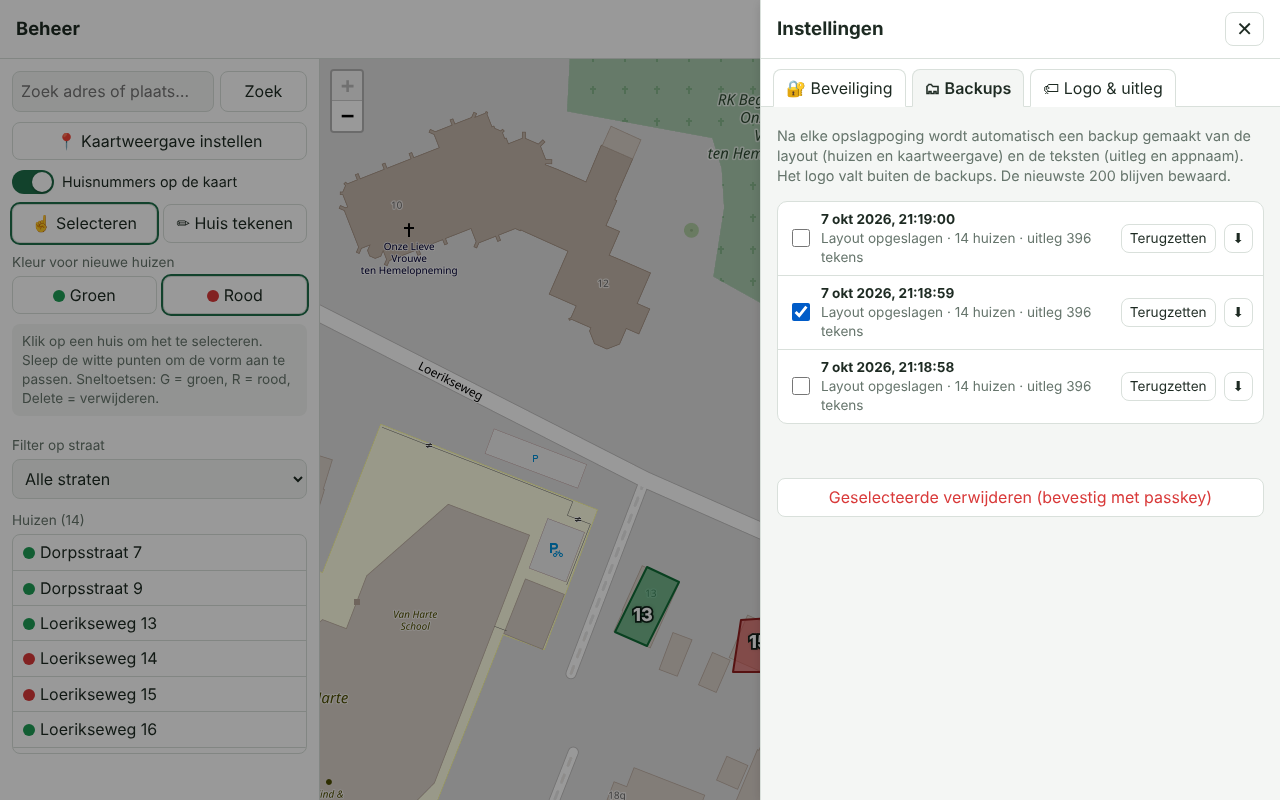
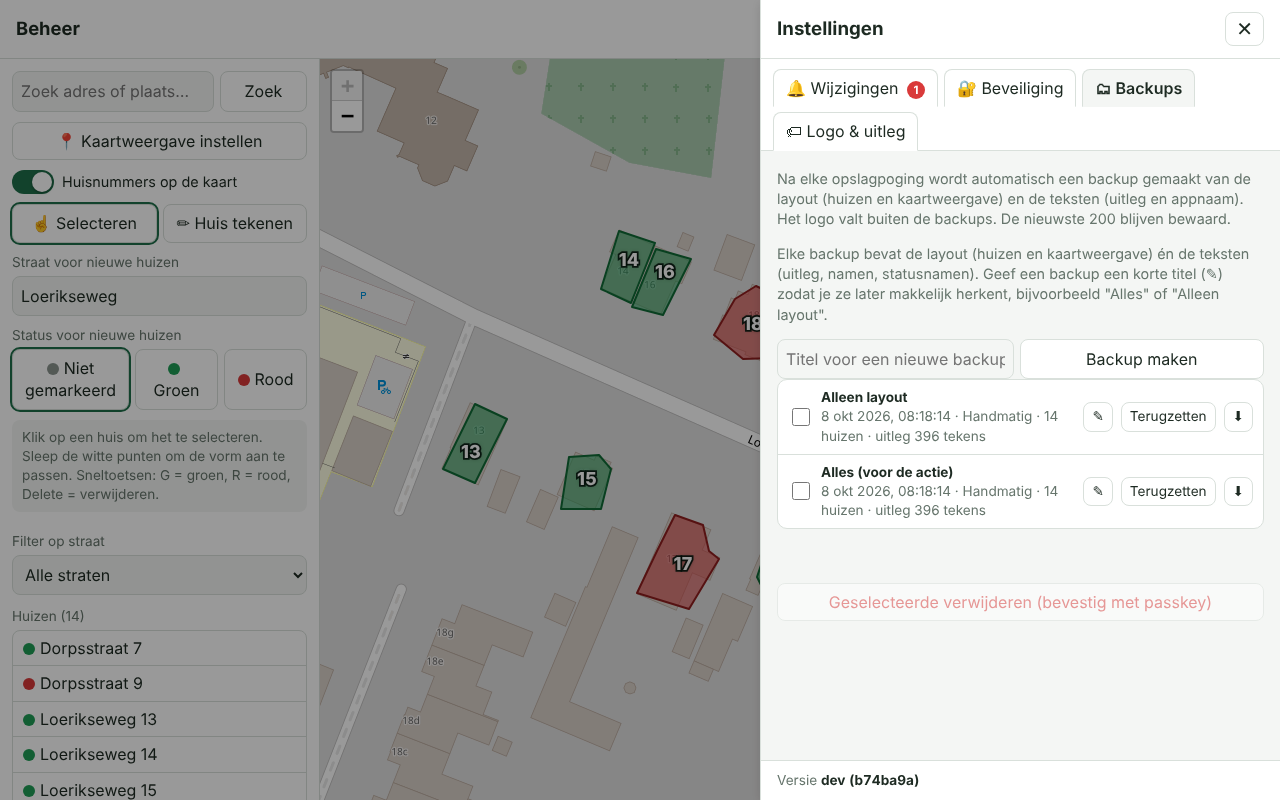
README: volledige beschrijving van functies en nieuwe beheer-screenshots; uitgeschakelde schakelaars zichtbaar dimmen
Claude-Session: https://claude.ai/code/session_01RbVCVsqhcBjjeTGeb2Cmpu

diff --git a/public/css/style.css b/public/css/style.css
@@ -248,3 +248,4 @@ path.pending { animation: dash 1.2s linear infinite; }
 .intro-head { display: flex; align-items: flex-start; justify-content: space-between; gap: 10px; position: sticky; top: 0; background: var(--panel); z-index: 1; }
 .intro-head h3 { margin: 8px 0; }
 .leaflet-container { -webkit-touch-callout: none; -webkit-user-select: none; user-select: none; }
+.switch:has(input:disabled) { opacity: .45; cursor: not-allowed; }

diff --git a/README.md b/README.md
@@ -1,17 +1,45 @@
 # Sint Maarten – interactieve wijkkaart
 
-Publieke kaart van de wijk waarop huizen groen of rood zijn gemarkeerd, met een beheerscherm
-(`/beheer`) dat beveiligd is met een **passkey**.
+Een interactieve kaart van de wijk waarop elk huis **groen**, **rood** of **niet gemarkeerd** is (bijvoorbeeld voor een Sint Maarten-actie: welke huizen willen wel of niet dat er wordt aangebeld). Bezoekers bekijken de kaart in de browser of als app op hun telefoon; de beheerder tekent de huizen en beheert alles in `/beheer`, beveiligd met een **passkey**. Draait als één Docker-container op bijvoorbeeld een NAS.
 
-## Screenshots
+## Inhoud
+- [Functies in het kort](#functies-in-het-kort)
+- [De website voor bezoekers](#de-website-voor-bezoekers)
+- [Bewoners: huis wijzigen](#bewoners-huis-wijzigen)
+- [Het beheer](#het-beheer-beheer)
+- [Instellingen](#instellingen)
+- [Installeren en draaien](#installeren-als-app-en-offline-gebruik)
+
+## Functies in het kort
+
+**Voor bezoekers**
+- Kaart op basis van OpenStreetMap (geen API-sleutel) met gekleurde vlakken over de huizen; klik op een huis voor de notitie.
+- Huisnummers op de kaart (schakelaar), straten-filter met tellingen groen/rood, en een uitleg- en infovenster.
+- **PDF** (A4 liggend) met kaart, legenda, aantallen, logo, uitleg en een overzicht van de gemarkeerde huizen, inclusief datum en tijd.
+- **Installeerbaar als app (PWA)** met eigen Sint Maarten-icoon en **offline** gebruik.
+- Werkt op telefoon (menubalk onderin, zwevend statusbalkje) en desktop.
+
+**Voor bewoners**
+- Bewoners wijzigen de status van **hun eigen huis** (één huis per apparaat); de beheerder keurt dat goed. Zie [Bewoners: huis wijzigen](#bewoners-huis-wijzigen).
+- Snel naar je huis met dubbelklikken of lang indrukken.
+
+**Voor de beheerder**
+- Huizen tekenen en bewerken (kleur, straat, huisnummer, notitie, hoekpunten), kaartweergave instellen (midden, zoom, min/max).
+- Inloggen met **passkey** (optioneel ook met wachtwoord, bevestigd met een passkey).
+- Wijzigingen van bewoners **goedkeuren of afwijzen**, met **pushmeldingen**; apparaten **blokkeren** (ook op IP); wijzigen **plannen** tot een datum en tijd.
+- Eigen **logo, uitleg, infovlak, site- en appnaam** en eigen namen voor de statussen.
+- Automatische **backups** na elke opslagpoging, met korte titels en handmatige backups.
+- Versienummer en commit zichtbaar in het instellingenmenu.
+
+## De website voor bezoekers
 
 Voorbeeld met willekeurige huizen (kaartgegevens © OpenStreetMap-bijdragers).
 
-**Publieke kaart** – met het logo van de vereniging; klik op een huis voor de notitie. Bovenaan staan de knoppen voor de uitleg, de PDF en (op een telefoon) het installeren als app.
+**Publieke kaart** – met het logo van de vereniging; klik op een huis voor de notitie. Bovenaan staan de knoppen voor de uitleg, de straten en het menu *Meer* (⋯) met de PDF-knoppen en *Installeer app*.
 
 ![Publieke kaart](docs/screenshots/publiek.png)
 
-**Mobiel** – bovenaan alleen het logo, de titel en de schakelaar voor huisnummers; de acties (uitleg, straten, PDF opslaan) staan onderaan.
+**Mobiel** – bovenaan alleen het logo, de titel en de schakelaar voor huisnummers; de acties (uitleg, straten, Meer) staan onderaan, met het statusbalkje (groen/rood) er altijd net boven.
 
 ![Mobiel](docs/screenshots/mobiel.png)
 
@@ -19,91 +47,89 @@ Voorbeeld met willekeurige huizen (kaartgegevens © OpenStreetMap-bijdragers).
 
 ![Straten](docs/screenshots/straten-popup.png)
 
-**Uitleg** – de tekst van de vereniging; wordt de eerste keer automatisch getoond.
+**Uitleg en infovlak** – de tekst van de vereniging; wordt de eerste keer automatisch getoond en sluit met het kruisje rechtsboven. Bovenaan staat het opvallende groene **infovlak** dat uitlegt dat bewoners hun eigen huis kunnen wijzigen; dat verdwijnt zodra wijzigen is uitgeschakeld.
 
 ![Uitleg](docs/screenshots/uitleg.png)
+![Infovlak](docs/screenshots/info-vlak-mobiel.png)
 
-### Beheer (`/beheer`)
-
-**Onboarding** – de eerste keer maak je een passkey aan met de installatiecode.
-
-![Onboarding](docs/screenshots/onboarding.png)
-
-**Inloggen** – alleen met passkey (vingerafdruk, gezicht, pincode of beveiligingssleutel).
-
-![Inloggen](docs/screenshots/beheer-login.png)
-
-**Huis tekenen** – kies een kleur en klik de hoekpunten van het huis; sluit af met het gele beginpunt, dubbelklik of Enter.
-
-![Huis tekenen](docs/screenshots/beheer-tekenen.png)
-
-**Huis bewerken** – selecteer een huis om de kleur, het huisnummer en de notitie aan te passen, of sleep de hoekpunten.
-
-![Beheerscherm](docs/screenshots/beheer.png)
-
-**Instellingen** – het tandwiel (⚙) in de balk schuift het instellingen-menu in beeld, met drie onderdelen:
-
-- *Beveiliging*: passkeys toevoegen/verwijderen en een optioneel wachtwoord (bevestigen met passkey).
-
-  ![Instellingen: beveiliging](docs/screenshots/instellingen-beveiliging.png)
-
-- *Backups*: na elke opslagpoging wordt automatisch een backup gemaakt van de layout en teksten. Je kunt een backup terugzetten of downloaden;
-  verwijderen (één of meer tegelijk) moet je bevestigen met je passkey.
-
-  ![Instellingen: backups](docs/screenshots/instellingen-backups.png)
-
-- *Logo & uitleg*: logo uploaden, naam van de app en de uitlegtekst voor de site en de PDF.
-
-  ![Instellingen: logo en uitleg](docs/screenshots/instellingen-logo.png)
-
-**PDF-export** – A4 liggend met legenda en aantallen (pagina 2 bevat een overzicht van de huizen).
+**PDF-export** – A4 liggend met legenda, aantallen en de datum en het tijdstip (HH:MM) van de stand. Pagina 2 bevat het logo, de uitleg en het overzicht van de gemarkeerde huizen. De PDF volgt de gekozen straten en de huisnummers.
 
 ![PDF-export](docs/screenshots/pdf.png)
-
-Pagina 2 bevat het logo, de uitleg en het overzicht van de gemarkeerde huizen.
-
 ![PDF-toelichting](docs/screenshots/pdf-toelichting.png)
 
 ## Bewoners: huis wijzigen
 - In de **geïnstalleerde app** (PWA) staat in de menubalk altijd een knop **Huis wijzigen**, plus een knop **Sync** (🔄) waarmee je de huizen direct bijwerkt (de app ververst ook zelf elke 30 seconden).
-- In een **gewone browser** staat bovenin een schakelaar **Bewerken** (✏). Zet je die aan, dan verschijnt de knop *Huis wijzigen* in de menubalk. *PDF opslaan*, *PDF bekijken* en *Installeer app* staan altijd onder het menu **Meer** (⋯), ook in de app. Het balkje met de statuskleuren zweeft op een klein scherm altijd net boven de menubalk. In de app is deze schakelaar verborgen.
+- In een **gewone browser** staat bovenin een schakelaar **Bewerken** (✏). Zet je die aan, dan verschijnt de knop *Huis wijzigen* in de menubalk. *PDF opslaan*, *PDF bekijken* en *Installeer app* staan altijd onder het menu **Meer** (⋯), ook in de app. In de app is de schakelaar verborgen.
 
 ![Bewerken en Meer-menu](docs/screenshots/bewerken-meer-mobiel.png)
 
-**Snel naar jouw huis** – met een muis dubbelklik je op een huis, op een touchscreen druk je er lang op (ruim een halve seconde). Dan gaat *Bewerken* aan (in de browser), springt de kaart naar het huis en start de wijzigmodus; heb je nog geen huis gekozen, dan vraagt de app of het jouw huis is. Een dubbelklik buiten de huizen zoomt gewoon in.
+**Snel naar jouw huis** – met een muis dubbelklik je op een huis, op een touchscreen druk je er lang op (ruim een halve seconde). Dan gaat *Bewerken* aan (in de browser), springt de kaart naar het huis en start de wijzigmodus; heb je nog geen huis gekozen, dan vraagt de app of het jouw huis is. Een dubbelklik buiten de huizen zoomt gewoon in. In het beheer selecteert hetzelfde gebaar het huis in de selecteermodus.
 
-**In het beheer** werkt dit ook: dubbelklik (of druk lang) op een huis en de selecteermodus gaat aan met dat huis geselecteerd, ook als je net aan het tekenen was (zolang er nog geen vlak loopt).
-
-**Wijzigen plannen** – zet onder *Instellingen → Wijzigingen* de schakelaar *Wijzigen automatisch uitschakelen* aan en kies met de datum-/tijdkiezer wanneer. Tot dat moment kunnen bewoners wijzigen (browser én app); daarna staat het uit. De twee schakelaars eronder worden in die tijd uitgeschakeld en genegeerd; zet je de planning uit, dan gelden ze weer.
-
-**Infovlak** – onder *Instellingen → Logo & uitleg* staat een apart tekstveld voor het infovlak. Dat staat als opvallend groen blok bovenaan de uitleg op de website en legt uit dat bewoners hun eigen huis kunnen wijzigen. Het verdwijnt vanzelf zodra wijzigen door bewoners uit staat (of de geplande datum is verstreken).
-
-![Infovlak in de uitleg](docs/screenshots/info-vlak-mobiel.png)
-
-**Misbruik tegengaan** – onder *Instellingen → Wijzigingen* staat bij elke openstaande wijziging en bij elk aangemeld apparaat een knop **Blokkeren**. Het apparaat verliest zijn koppeling en openstaande wijzigingen, en kan niet meer wijzigen of een huis kiezen. Je kunt er ook het **IP-adres** bij blokkeren (let op: huisgenoten of buren achter dezelfde router delen vaak een IP). Onder *Geblokkeerd* haal je een blokkade weer weg.
-
-**Alleen in de app toestaan** – onder *Instellingen → Wijzigingen* zet je **Alleen in de geïnstalleerde app (niet in de browser)** aan. De schakelaar *Bewerken* verdwijnt dan voor browserbezoekers (ook bij een open pagina, na het verversen), en de server weigert wijzigingen die niet vanuit de app komen. De app meldt zich daarvoor met een kop (`X-App-Mode: standalone`). Dat is een gebruiksbeperking: wie de verzoeken zelf nabootst kan de kop meesturen, maar elke wijziging moet nog steeds door de beheerder worden goedgekeurd.
-
-![Alleen in de app](docs/screenshots/instellingen-alleen-app.png)
 - Een bewoner tikt op zijn huis (of kiest zijn adres) en bevestigt dat. Dat apparaat is dan aan **één huis** gekoppeld (cookie, 1 jaar). Daarna wisselt elke tik op dat huis (of een keuze in het venster) de kleur: niet gemarkeerd → groen → rood → niet gemarkeerd. Andere huizen kunnen niet worden gewijzigd.
-- De wijziging is **pas zichtbaar voor anderen nadat de beheerder die goedkeurt**. De bewoner ziet het huis in de tussentijd met een gestippelde rand en de melding *Wacht op goedkeuring*; na de beslissing volgt een bericht (goedgekeurd of niet doorgevoerd).
-- Er worden alleen een willekeurig apparaat-token (als hash) en het gekozen huis bewaard, geen namen of andere persoonsgegevens.
+- De wijziging is **pas zichtbaar voor anderen nadat de beheerder die goedkeurt**. De bewoner ziet het huis in de tussentijd met een gestippelde rand en de melding *Wacht op goedkeuring*; na de beslissing volgt een bericht (goedgekeurd of niet doorgevoerd). De beheerder kan de status van een huis altijd zelf aanpassen; een openstaand voorstel volgt dan de nieuwe status of vervalt als het precies overeenkomt.
+- Er worden alleen een willekeurig apparaat-token (als hash), het IP-adres van het laatste verzoek (voor het blokkeren) en het gekozen huis bewaard, geen namen of andere persoonsgegevens.
 - De koppeling en het voorstel blijven **bewaard na het afsluiten van de app**: ze staan op de server, met een lokale kopie van het token als reserve (voor als de cookie wordt gewist) en van de laatste status (voor als er geen verbinding is). Het eigen huis blijft ook buiten de wijzigmodus zichtbaar (⏳ zolang de wijziging op goedkeuring wacht, daarna 🏠).
-- De app **ververst zichzelf** (elke 30 seconden, en zodra je terugkeert naar de app of weer online bent). Keurt de beheerder een wijziging goed, dan verschijnt die vanzelf op het apparaat, inclusief een melding "Je wijziging is goedgekeurd". Ook de kaart, aantallen en straten van andere bezoekers verversen zo vanzelf.
+- De app **ververst zichzelf** (elke 30 seconden, en zodra je terugkeert naar de app of weer online bent). Keurt de beheerder een wijziging goed, dan verschijnt die vanzelf op het apparaat, inclusief een melding "Je wijziging is goedgekeurd".
 
 ![Huis kiezen](docs/screenshots/bewoner-kies-huis.png)
 ![Wacht op goedkeuring](docs/screenshots/bewoner-wacht.png)
 
-**Beheer** – *Instellingen (⚙) → Wijzigingen*: een rode teller bij het tandwiel en in de paginatitel toont het aantal openstaande wijzigingen; hier keur je wijzigingen goed of af (of alles tegelijk),
-zet je het wijzigen door bewoners aan/uit, beheer je de gekoppelde apparaten (een verkeerde koppeling verwijderen) en zet je meldingen aan.
+## Het beheer (`/beheer`)
 
-![Wijzigingen goedkeuren](docs/screenshots/instellingen-wijzigingen.png)
+**Onboarding** – de eerste keer maak je een passkey aan met de installatiecode (`SETUP_TOKEN`).
+
+![Onboarding](docs/screenshots/onboarding.png)
+
+**Inloggen** – met passkey (vingerafdruk, gezicht, pincode of beveiligingssleutel), eventueel met wachtwoord dat je met een passkey bevestigt.
+
+![Inloggen](docs/screenshots/beheer-login.png)
+
+**Huis tekenen** – kies een kleur en klik de hoekpunten van het huis; sluit af met het gele beginpunt, dubbelklik of Enter. Nieuwe huizen krijgen standaard *geen status* en de actieve straat.
+
+![Huis tekenen](docs/screenshots/beheer-tekenen.png)
+
+**Huis bewerken** – selecteer een huis (klik, dubbelklik of lang indrukken) om de kleur, straat, huisnummer en notitie aan te passen, of sleep de hoekpunten. Sneltoetsen: **G** groen, **R** rood, **Delete** verwijderen, **Ctrl+S** opslaan. De lijst links heeft een filter per straat; de rest wordt op de kaart gedimd.
+
+![Beheerscherm](docs/screenshots/beheer.png)
+
+## Instellingen
+Het tandwiel (⚙) in de balk schuift het instellingen-menu in beeld, met vier onderdelen.
+
+**Wijzigingen** – goedkeuren van wijzigingen van bewoners, plannen, blokkeren en meldingen:
+- Een rode teller bij het tandwiel en in de paginatitel toont het aantal openstaande wijzigingen; hier keur je ze goed of af (of alles tegelijk).
+- **Wijzigen plannen**: zet *Wijzigen automatisch uitschakelen* aan en kies met de datum-/tijdkiezer wanneer. Tot dat moment kunnen bewoners wijzigen (browser én app); daarna staat het uit. De twee schakelaars eronder ("Bewoners mogen wijzigen" en "Alleen in de geïnstalleerde app") worden in die tijd uitgeschakeld en genegeerd; zet je de planning uit, dan gelden ze weer. Het infovlak verdwijnt als wijzigen uit staat.
+- **Alleen in de geïnstalleerde app**: de schakelaar *Bewerken* verdwijnt dan voor browserbezoekers en de server weigert wijzigingen die niet vanuit de app komen (kop `X-App-Mode: standalone`). Dat is een gebruiksbeperking, geen harde beveiliging; elke wijziging moet toch door de beheerder worden goedgekeurd.
+- **Aangemelde apparaten** beheren (een verkeerde koppeling verwijderen) en **meldingen** aanzetten.
+
+![Wijzigingen goedkeuren en plannen](docs/screenshots/instellingen-wijzigingen.png)
+
+**Misbruik tegengaan** – bij elke openstaande wijziging en bij elk aangemeld apparaat staat een knop **Blokkeren**. Het apparaat verliest zijn koppeling en openstaande wijzigingen en kan niet meer wijzigen of een huis kiezen. Je kunt er ook het **IP-adres** bij blokkeren (let op: huisgenoten of buren achter dezelfde router delen vaak een IP). Onder *Geblokkeerd* haal je een blokkade weer weg.
+
+![Geblokkeerde apparaten](docs/screenshots/instellingen-geblokkeerd.png)
+
+**Beveiliging** – passkeys toevoegen/verwijderen en een optioneel wachtwoord (bevestigen met passkey).
+
+![Instellingen: beveiliging](docs/screenshots/instellingen-beveiliging.png)
+
+**Backups** – na elke opslagpoging wordt automatisch een backup gemaakt van de layout en teksten. Geef een backup een **korte titel** (✎, max. 40 tekens, bijvoorbeeld "Alles" of "Alleen layout") of maak er zelf een met *Backup maken*. Terugzetten of downloaden kan altijd; verwijderen (één of meer tegelijk) moet je bevestigen met je passkey.
+
+![Instellingen: backups](docs/screenshots/instellingen-backups.png)
+
+**Logo & uitleg** – logo uploaden, naam van de site en de app, namen van de statussen, het **infovlak** voor bewoners en de uitlegtekst voor de site en de PDF.
+
+![Instellingen: logo, infovlak en uitleg](docs/screenshots/instellingen-logo-info.png)
+
+![Instellingen: logo en uitleg](docs/screenshots/instellingen-logo.png)
+
+**Versie** – onderin het menu staat de versie en commit van de draaiende build (zie [Versienummer](#versienummer)).
+
+![Versie](docs/screenshots/instellingen-versie.png)
 
 ### Pushmeldingen voor de beheerder
 - Zet in *Instellingen → Wijzigingen → Meldingen op dit apparaat* meldingen aan op je eigen telefoon of computer. De server maakt daarvoor zelf de (VAPID-)sleutels en bewaart ze in `data/db.json`.
 - Bij een nieuwe wijziging ontvang je een pushmelding (meerdere wijzigingen kort na elkaar worden samengevoegd). Tik je erop, dan opent het beheer bij *Wijzigingen* en kun je goedkeuren of afwijzen; pas dan wordt de wijziging doorgevoerd.
 - Vereist **HTTPS**. Op een iPhone/iPad werkt Web Push alleen als je het beheer eerst aan het beginscherm toevoegt (iOS 16.4 of nieuwer) en het daar opent. Een knop *Testmelding* controleert of het werkt.
-- Verlopen apparaten worden automatisch opgeruimd. Bewoners kun je tijdelijk uitschakelen met de schakelaar in het beheer.
+- Verlopen apparaten worden automatisch opgeruimd.
 
 ## Namen van de statussen
 Onder *Instellingen (⚙) → Logo & uitleg* kun je de namen **Groen**, **Rood** en **Niet gemarkeerd** aanpassen, bijvoorbeeld naar *Akkoord* en *Nog niet bezocht*. De kleuren blijven groen en rood. De namen gelden overal: legenda, popups, straten-filter, de PDF, het beheer en de pushmelding. Leeg laten = standaardnaam.
@@ -120,18 +146,8 @@ Een nieuw getekend huis heeft standaard **geen status** (niet gemarkeerd; kies i
 
 ## Hoe werkt het
 - **Kaart**: OpenStreetMap (via Leaflet), geen API-sleutel nodig. Google Maps is bewust niet gebruikt: dat vereist een betaalde sleutel en de voorwaarden staan het overtekenen en exporteren naar PDF niet toe.
-- **Publiek (`/`)**: de kaart met gekleurde vlakken over de huizen; klik op een huis voor naam/notitie.
-  Knoppen **PDF bekijken** en **PDF downloaden** maken in de browser een A4-liggend PDF van het hele wijkgebied
-  (kaart, legenda met aantallen, bronvermelding, en een tweede pagina met overzicht van de gemarkeerde huizen).
-- **Logo & uitleg**: in het beheer (*Instellingen* ⚙ → *Logo & uitleg*) upload je het logo (PNG/JPEG/WebP, max 5 MB) en plak je een tekst. Het logo staat in de kop van de site en de PDF;
-  de tekst is op de site te lezen (knop *Uitleg*) en staat op pagina 2 van de PDF.
-- **App (PWA)**: de site is te installeren op een telefoon of computer en werkt offline (zie hieronder).
-- **Beheer (`/beheer`)**:
-  1. Zoek je straat (zoekveld) en zoom ver in; stel via *Kaartweergave instellen* het midden, de startzoom en de minimale/maximale zoom in (of neem de huidige weergave over). Bezoekers openen de kaart (ook in de app) met precies die weergave; met *Automatisch* toont de site alle huizen.
-  2. Kies *Huis tekenen*, kies groen of rood, klik de hoeken van een huis en sluit af (klik op het gele beginpunt, dubbelklik of Enter).
-  3. Pas later de kleur aan (knoppen of **G**/**R**), versleep hoekpunten, geef een huisnummer/notitie, en klik *Opslaan* (Ctrl+S).
-- **Onboarding**: de allereerste keer vraagt `/beheer` om de `SETUP_TOKEN` en maakt dan een passkey aan. Daarna kun je
-  via *Instellingen* (⚙) → *Beveiliging* extra apparaten toevoegen (doe dat zodat je niet buitengesloten raakt).
+- **Beheer instellen**: zoek je straat en zoom ver in; stel via *Kaartweergave instellen* het midden, de startzoom en de minimale/maximale zoom in (of neem de huidige weergave over). Bezoekers openen de kaart (ook in de app) met precies die weergave; met *Automatisch* toont de site alle huizen. In dezelfde dialoog bepaal je of de huisnummers voor bezoekers standaard aan staan.
+- **Onboarding**: de allereerste keer vraagt `/beheer` om de `SETUP_TOKEN` en maakt dan een passkey aan. Daarna kun je via *Instellingen* (⚙) → *Beveiliging* extra apparaten toevoegen (doe dat zodat je niet buitengesloten raakt).
 
 > De PDF haalt kaarttegels rechtstreeks bij OpenStreetMap op; houd het gebruik bescheiden
 > ([tile usage policy](https://operations.osmfoundation.org/policies/tiles/)).
